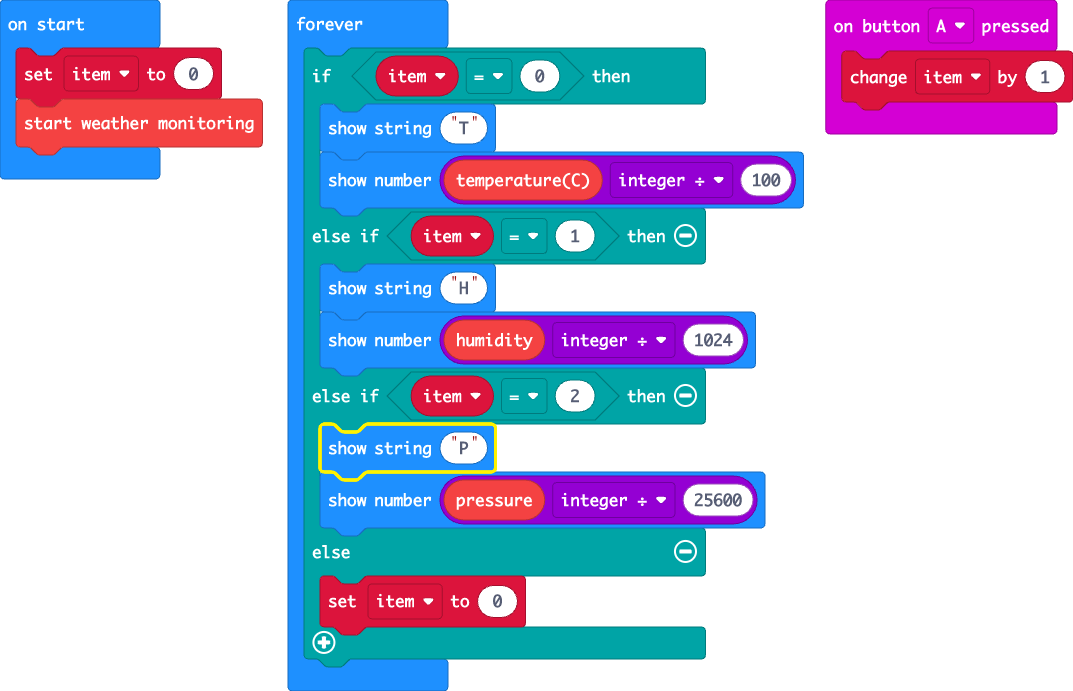
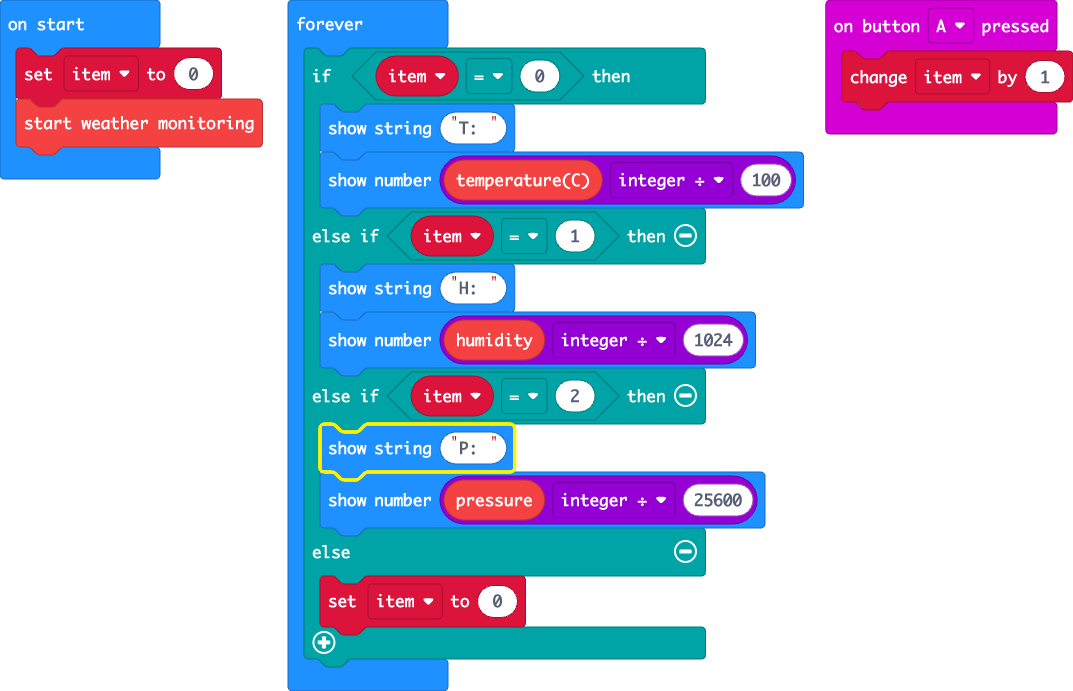
Update main.blocks, main.ts

Changed region(s): [[0.4306, 0.6078, 0.4921, 0.699], [0.4306, 0.3647, 0.4921, 0.4559], [0.4306, 0.152, 0.4921, 0.2431]]

diff --git a/main.ts b/main.ts
@@ -5,13 +5,13 @@ let item = 0
 weatherbit.startWeatherMonitoring()
 basic.forever(function () {
     if (item == 0) {
-        basic.showString("T")
+        basic.showString("T: ")
         basic.showNumber(Math.idiv(weatherbit.temperature(), 100))
     } else if (item == 1) {
-        basic.showString("H")
+        basic.showString("H: ")
         basic.showNumber(Math.idiv(weatherbit.humidity(), 1024))
     } else if (item == 2) {
-        basic.showString("P")
+        basic.showString("P: ")
         basic.showNumber(Math.idiv(weatherbit.pressure(), 25600))
     } else {
         item = 0
